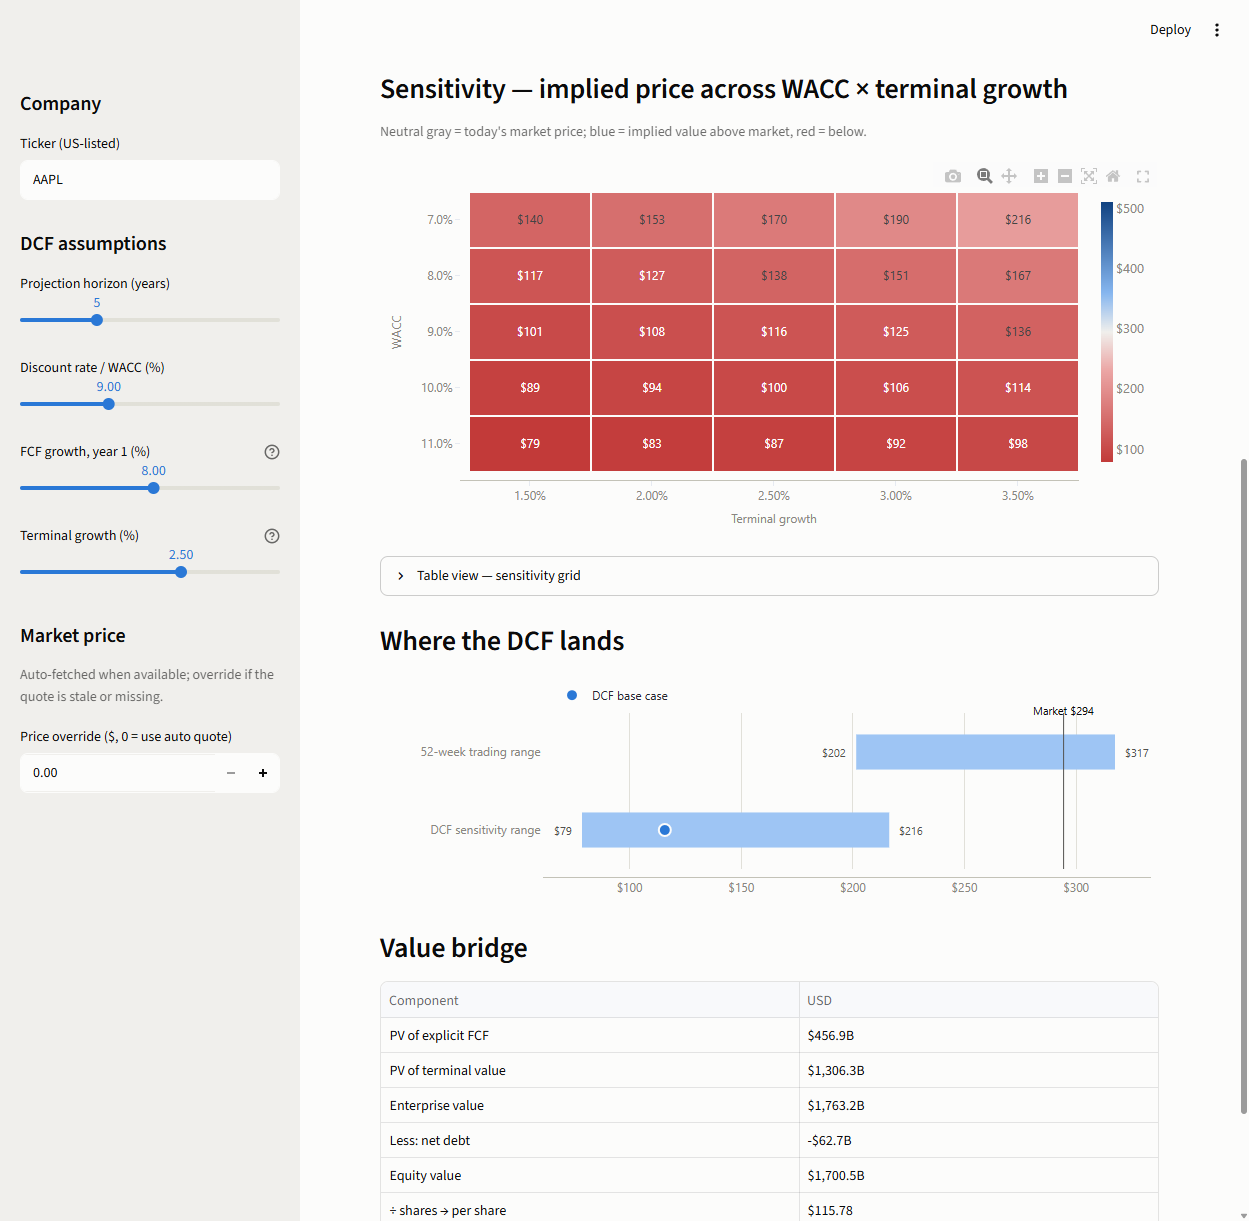
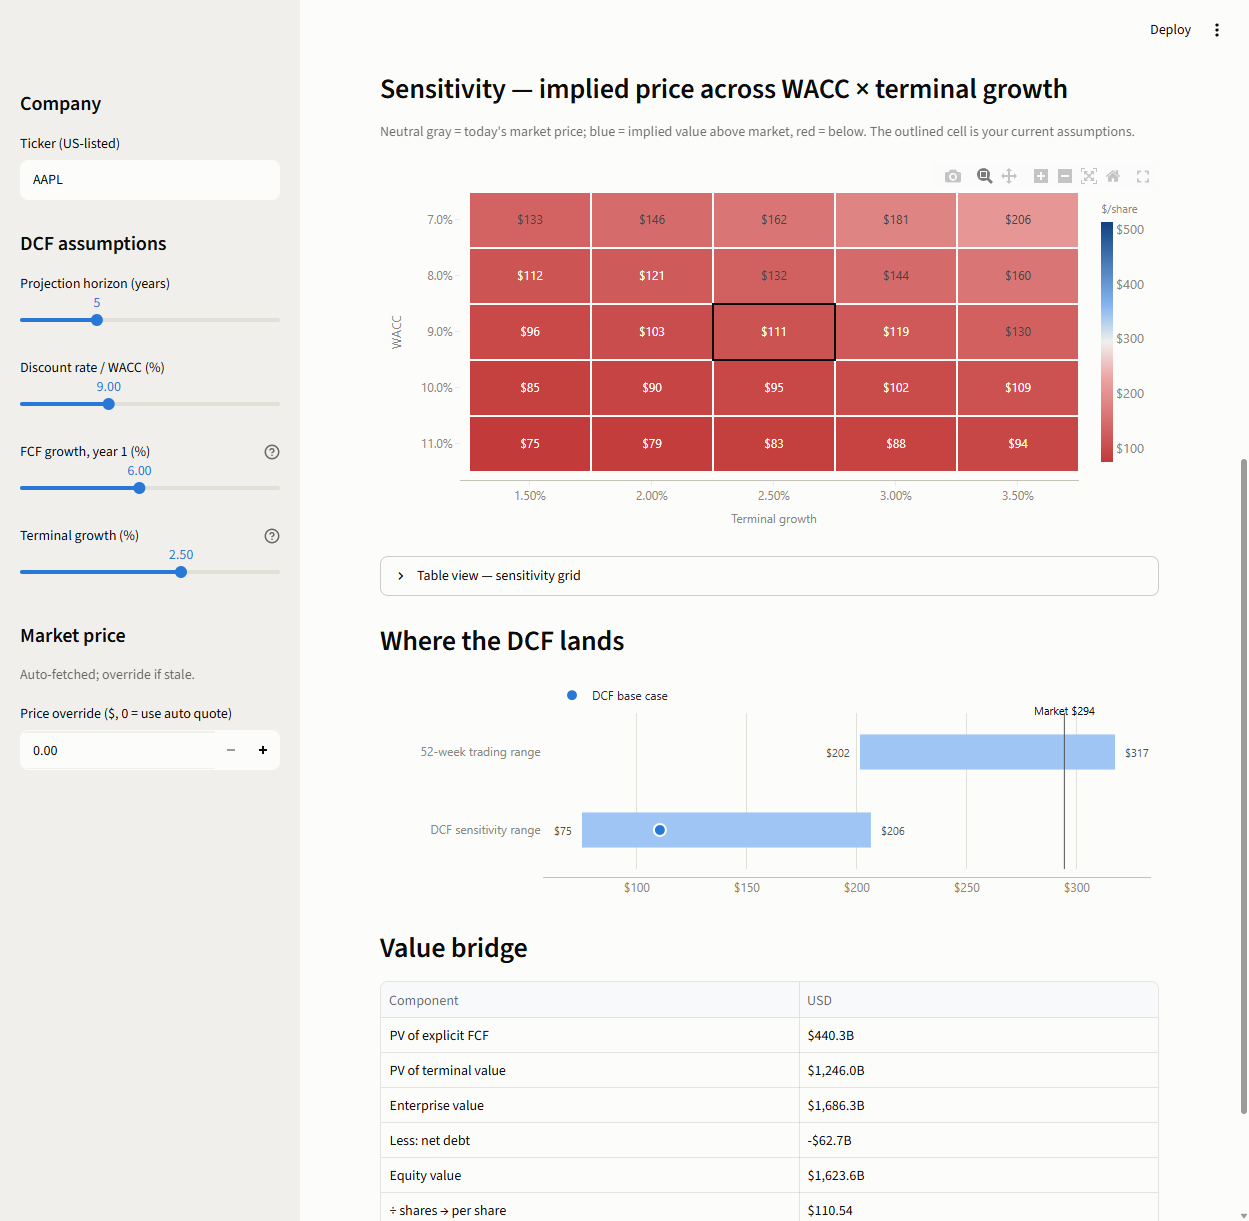
fix: currency mixing, label collisions, LaTeX-mangled warnings; smarter UI
Bugs:
- prefer USD unit per fact (dual-currency filers mixed currencies)
- clearer error for IFRS/20-F filers (was misattributed to banks)
- end-labels anchored to last valid year, not last axis year
- margin end-labels dodge when overlapping (AMZN op/net both 11%)
- escape $ in st.warning (markdown math mode ate dollar amounts)
- guard divide-by-zero in FCF smoothing; skip football field on empty grid

UI:
- growth slider seeded from the company's own FCF CAGR (per-ticker keys)
- base-case cell outlined on sensitivity heatmap; colorbar titled
- EV tile humanized ($1.69T), projection table in $B, ticker suggestions
- hide never-reported concepts in tables; note when GrossProfit is absent

diff --git a/app.py b/app.py
@@ -8,6 +8,8 @@ Run locally:
     streamlit run app.py
 """
 
+import difflib
+
 import numpy as np
 import pandas as pd
 import streamlit as st
@@ -47,28 +49,20 @@ def table_view(df: pd.DataFrame, label: str = "Table view") -> None:
         st.dataframe(df, use_container_width=True)
 
 
+def money(v: float) -> str:
+    """$1.76T / $95B — human scale for headline tiles."""
+    if abs(v) >= 1e12:
+        return f"${v / 1e12:,.2f}T"
+    return f"${v / 1e9:,.0f}B"
+
+
 # --------------------------------------------------------------------------- #
-# Sidebar — company + assumptions
+# Sidebar part 1 — which company
 # --------------------------------------------------------------------------- #
 with st.sidebar:
     st.header("Company")
     ticker = st.text_input("Ticker (US-listed)", value="AAPL", max_chars=10).strip().upper()
 
-    st.header("DCF assumptions")
-    years = st.slider("Projection horizon (years)", 3, 10, 5)
-    wacc_pct = st.slider("Discount rate / WACC (%)", 6.0, 15.0, 9.0, 0.25)
-    growth_pct = st.slider("FCF growth, year 1 (%)", -10.0, 25.0, 8.0, 0.5,
-                           help="Defaults are a neutral starting point — the historical FCF CAGR is shown below for reference.")
-    terminal_pct = st.slider("Terminal growth (%)", 0.0, 4.0, 2.5, 0.25,
-                             help="Long-run growth into perpetuity; usually at or below nominal GDP growth (~2-3%).")
-
-    st.header("Market price")
-    st.caption("Auto-fetched when available; override if the quote is stale or missing.")
-    price_override = st.number_input("Price override ($, 0 = use auto quote)", min_value=0.0, value=0.0, step=1.0)
-
-# --------------------------------------------------------------------------- #
-# Load data
-# --------------------------------------------------------------------------- #
 if not ticker:
     st.info("Enter a ticker in the sidebar to begin.")
     st.stop()
@@ -77,22 +71,54 @@ try:
     with st.spinner(f"Pulling {ticker} 10-K history from SEC EDGAR…"):
         info, fin, shares = load_company(ticker)
 except KeyError:
-    st.error(f"**{ticker}** isn't in the SEC's company list. Check the ticker — foreign or OTC "
-             "listings without EDGAR filings won't work.")
+    st.error(f"**{ticker}** isn't in the SEC's company list.")
+    close = difflib.get_close_matches(ticker, list(ticker_map().keys()), n=5, cutoff=0.6)
+    if close:
+        st.info("Did you mean: " + " · ".join(f"**{c}**" for c in close) + "?")
     st.stop()
 except ValueError as e:
-    st.error(f"EDGAR has filings for **{ticker}** but not the annual facts this model needs: {e}. "
-             "Banks and insurers often report under different concepts than the standard "
-             "revenue/CFO/capex set this DCF is built on.")
+    st.error(f"EDGAR has filings for **{ticker}**, but {e}.")
+    st.caption("Banks and insurers report under concepts this FCF-based DCF doesn't "
+               "use (no capex, negative CFO by design), and IFRS/20-F filers use a "
+               "different taxonomy — both are out of scope for this model.")
     st.stop()
 except Exception as e:
     st.error(f"Couldn't reach SEC EDGAR ({type(e).__name__}). Try again in a minute.")
     st.stop()
 
 quote = load_quote(ticker)
-market_price = price_override if price_override > 0 else (quote.price if quote else None)
-
 fcf_cagr = dcf_mod.historical_fcf_cagr(fin["fcf"])
+
+# --------------------------------------------------------------------------- #
+# Sidebar part 2 — assumptions, seeded from this company's own history.
+# Widget keys include the ticker so switching companies re-seeds the sliders.
+# --------------------------------------------------------------------------- #
+# Snap to the slider's 0.5 step so the seeded default sits on the grid.
+default_growth = round(fcf_cagr * 100 * 2) / 2 if fcf_cagr is not None else 8.0
+with st.sidebar:
+    st.header("DCF assumptions")
+    years = st.slider("Projection horizon (years)", 3, 10, 5, key=f"years_{ticker}")
+    wacc_pct = st.slider("Discount rate / WACC (%)", 6.0, 15.0, 9.0, 0.25, key=f"wacc_{ticker}")
+    growth_pct = st.slider(
+        "FCF growth, year 1 (%)", -10.0, 25.0, float(default_growth), 0.5,
+        key=f"growth_{ticker}",
+        help="Seeded from this company's historical FCF CAGR (shown under the title) "
+             "when it's computable; otherwise 8%.",
+    )
+    terminal_pct = st.slider("Terminal growth (%)", 0.0, 4.0, 2.5, 0.25, key=f"term_{ticker}",
+                             help="Long-run growth into perpetuity; usually at or below "
+                                  "nominal GDP growth (~2-3%).")
+
+    st.header("Market price")
+    if quote is None:
+        st.caption("⚠ Quote lookup failed (rate limit or unknown symbol) — enter a price "
+                   "below to compare against the DCF.")
+    else:
+        st.caption("Auto-fetched; override if stale.")
+    price_override = st.number_input("Price override ($, 0 = use auto quote)",
+                                     min_value=0.0, value=0.0, step=1.0)
+
+market_price = price_override if price_override > 0 else (quote.price if quote else None)
 
 # --------------------------------------------------------------------------- #
 # Header + hero tiles
@@ -123,9 +149,11 @@ if result:
               help=None if market_price else "Quote unavailable — set a price override in the sidebar.")
     t3.metric("Upside vs market", f"{upside:+.1f}%" if upside is not None else "—",
               delta=f"{upside:+.1f}%" if upside is not None else None)
-    t4.metric("Enterprise value", f"${result.enterprise_value / 1e9:,.0f}B")
+    t4.metric("Enterprise value", money(result.enterprise_value))
     for w in result.warnings:
-        st.warning(w)
+        # Streamlit renders markdown: a pair of $ signs flips into LaTeX math
+        # and mangles dollar amounts — escape them.
+        st.warning(w.replace("$", "\\$"))
 else:
     st.error(f"DCF not computable with these inputs: {dcf_error}")
 
@@ -140,28 +168,35 @@ with tab_val:
     if result:
         st.subheader("Free cash flow — history and projection")
         st.plotly_chart(charts.fig_fcf_projection(fin, result.projection), use_container_width=True)
-        proj_tbl = result.projection.copy()
-        proj_tbl["growth"] = (proj_tbl["growth"] * 100).round(2)
-        table_view(proj_tbl.round(0), "Table view — projection")
+        proj_tbl = pd.DataFrame({
+            "Year": result.projection["year"],
+            "Growth %": (result.projection["growth"] * 100).round(2),
+            "FCF ($B)": (result.projection["fcf"] / 1e9).round(2),
+            "Discount factor": result.projection["discount_factor"].round(3),
+            "PV ($B)": (result.projection["pv"] / 1e9).round(2),
+        }).set_index("Year")
+        table_view(proj_tbl, "Table view — projection")
 
         st.subheader("Sensitivity — implied price across WACC × terminal growth")
-        st.caption("Neutral gray = today's market price; blue = implied value above market, red = below.")
+        st.caption("Neutral gray = today's market price; blue = implied value above market, "
+                   "red = below. The outlined cell is your current assumptions.")
         grid = dcf_mod.sensitivity_grid(fin, shares, assump)
         st.plotly_chart(charts.fig_sensitivity(grid, market_price), use_container_width=True)
         table_view(grid.round(2).rename(columns=lambda g: f"{g*100:.2f}%",
                                         index=lambda w: f"{w*100:.1f}%"),
                    "Table view — sensitivity grid")
 
-        st.subheader("Where the DCF lands")
         sens_vals = grid.values[np.isfinite(grid.values.astype(float))]
-        st.plotly_chart(
-            charts.fig_football_field(
-                result.implied_price, float(sens_vals.min()), float(sens_vals.max()),
-                quote.week52_low if quote else None, quote.week52_high if quote else None,
-                market_price,
-            ),
-            use_container_width=True,
-        )
+        if sens_vals.size:
+            st.subheader("Where the DCF lands")
+            st.plotly_chart(
+                charts.fig_football_field(
+                    result.implied_price, float(sens_vals.min()), float(sens_vals.max()),
+                    quote.week52_low if quote else None, quote.week52_high if quote else None,
+                    market_price,
+                ),
+                use_container_width=True,
+            )
 
         st.subheader("Value bridge")
         bridge = pd.DataFrame({
@@ -179,9 +214,13 @@ with tab_fin:
     st.subheader("Revenue and net income")
     st.plotly_chart(charts.fig_revenue_income(fin), use_container_width=True)
     st.subheader("Margins")
+    if fin["gross_profit"].isna().all():
+        st.caption(f"{info['title']} doesn't report a GrossProfit line in its filings — "
+                   "gross margin is omitted.")
     st.plotly_chart(charts.fig_margins(fin), use_container_width=True)
     fin_tbl = fin[["fiscal_year", "revenue", "gross_profit", "operating_income",
                    "net_income", "cfo", "capex", "fcf"]].set_index("fiscal_year")
+    fin_tbl = fin_tbl.dropna(axis=1, how="all")  # hide concepts this filer never reports
     table_view((fin_tbl / 1e9).round(2), "Table view — financials (USD billions)")
 
 with tab_ratio:
@@ -193,7 +232,7 @@ with tab_ratio:
         "FCF margin %": (fin["fcf"] / fin["revenue"] * 100).round(1),
         "Current ratio": (fin["assets_current"] / fin["liabilities_current"]).round(2),
         "Debt/equity": (fin["total_debt"] / fin["equity"]).round(2),
-    }).set_index("fiscal_year")
+    }).set_index("fiscal_year").dropna(axis=1, how="all")
     table_view(ratios, "Table view — ratios")
 
 with tab_data:

diff --git a/charts.py b/charts.py
@@ -68,9 +68,10 @@ def fig_revenue_income(df: pd.DataFrame) -> go.Figure:
     # Grouped bars sit either side of the year tick — offset each label to its
     # own bar so neither collides with the taller neighbor.
     for col, color, xshift in (("revenue", S1_BLUE, -18), ("net_income", "#12805a", 18)):
-        val = df[col].dropna()
-        if not val.empty:
-            fig.add_annotation(x=years.iloc[-1], y=val.iloc[-1], text=_usd_b(val.iloc[-1]),
+        idx = df[col].last_valid_index()
+        if idx is not None:
+            fig.add_annotation(x=df.loc[idx, "fiscal_year"], y=df.loc[idx, col],
+                               text=_usd_b(df.loc[idx, col]),
                                yshift=12, xshift=xshift, showarrow=False,
                                font=dict(size=11, color=color), xanchor="center")
     fig.update_layout(bargap=0.35, bargroupgap=0.12)
@@ -86,6 +87,7 @@ def fig_margins(df: pd.DataFrame) -> go.Figure:
         ("Net margin", df["net_income"] / df["revenue"], S3_YELLOW),
     ]
     fig = go.Figure()
+    labels: list[tuple[float, str, str, int]] = []  # (y, text, color, fiscal_year)
     for name, vals, color in series:
         pct = vals * 100
         if pct.dropna().empty:
@@ -93,9 +95,20 @@ def fig_margins(df: pd.DataFrame) -> go.Figure:
         fig.add_scatter(x=years, y=pct, name=name, mode="lines",
                         line=dict(color=color, width=2),
                         hovertemplate=name + " %{y:.1f}%<extra></extra>")
-        last = pct.dropna()
-        fig.add_annotation(x=years.iloc[-1], y=last.iloc[-1], text=f"{last.iloc[-1]:.0f}%",
-                           xshift=18, showarrow=False, font=dict(size=11, color=color))
+        idx = pct.last_valid_index()
+        labels.append((float(pct.loc[idx]), f"{pct.loc[idx]:.0f}%", color,
+                       int(df.loc[idx, "fiscal_year"])))
+    # Dodge end-labels that land on top of each other (e.g. two margins both
+    # ending at 11%): nudge later labels down in 12px steps when too close.
+    labels.sort(key=lambda t: -t[0])
+    prev_y, bump = None, 0
+    span = max(v[0] for v in labels) - min(v[0] for v in labels) if labels else 0
+    min_gap = max(span * 0.06, 1.0)
+    for y_val, text, color, fy in labels:
+        bump = bump + 14 if prev_y is not None and (prev_y - y_val) < min_gap else 0
+        fig.add_annotation(x=fy, y=y_val, text=text, xshift=18, yshift=-bump,
+                           showarrow=False, font=dict(size=11, color=color))
+        prev_y = y_val
     return _base_layout(fig, ylabel="% of revenue")
 
 
@@ -116,10 +129,10 @@ def fig_ratio_panels(df: pd.DataFrame) -> go.Figure:
         fig.add_scatter(x=years, y=vals, mode="lines", line=dict(color=S1_BLUE, width=2),
                         showlegend=False, row=row, col=col,
                         hovertemplate=name + " %{y:.2f}" + suffix + "<extra></extra>")
-        last = vals.dropna()
-        if not last.empty:
-            fig.add_annotation(x=years.iloc[-1], y=last.iloc[-1],
-                               text=f"{last.iloc[-1]:.1f}{suffix}", xshift=16, showarrow=False,
+        idx = vals.last_valid_index()
+        if idx is not None:
+            fig.add_annotation(x=df.loc[idx, "fiscal_year"], y=vals.loc[idx],
+                               text=f"{vals.loc[idx]:.1f}{suffix}", xshift=16, showarrow=False,
                                font=dict(size=11, color=S1_BLUE), row=row, col=col)
     fig.update_annotations(font=dict(size=13, color=INK_2))
     _base_layout(fig, height=480)
@@ -172,8 +185,14 @@ def fig_sensitivity(grid: pd.DataFrame, market_price: float | None) -> go.Figure
         textfont=dict(size=12, family=FONT),
         colorscale=colorscale, zmin=zmin, zmax=zmax,
         xgap=2, ygap=2, hovertemplate="WACC %{y} · growth %{x}: %{text}<extra></extra>",
-        colorbar=dict(tickprefix="$", outlinewidth=0, thickness=12, tickfont=dict(color=MUTED)),
+        colorbar=dict(title=dict(text="$/share", font=dict(size=11, color=MUTED)),
+                      tickprefix="$", outlinewidth=0, thickness=12, tickfont=dict(color=MUTED)),
     ))
+    # The grid is a linspace centered on the user's assumptions, so the center
+    # cell IS the base case — outline it so readers can anchor themselves.
+    ci, cj = len(grid.index) // 2, len(grid.columns) // 2
+    fig.add_shape(type="rect", x0=cj - 0.5, x1=cj + 0.5, y0=ci - 0.5, y1=ci + 0.5,
+                  line=dict(color=INK, width=2))
     _base_layout(fig, height=380)
     fig.update_layout(hovermode="closest")
     # type="category" keeps the "8.0%" tick labels verbatim — otherwise Plotly

diff --git a/edgar.py b/edgar.py
@@ -138,9 +138,15 @@ def _annual_series(gaap: dict, tags: list[str], keep: Callable[[dict], bool]) ->
         fact = gaap.get(tag)
         if not fact:
             continue
-        for unit_rows in fact.get("units", {}).values():
-            rows = [r for r in unit_rows if keep(r)]
-            merged.update(_dedupe_by_end(rows))
+        units = fact.get("units", {})
+        # A dual-currency filer reports the same concept in several units;
+        # merging them would mix currencies. Take USD when present, otherwise
+        # the single unit the filer uses.
+        unit_key = "USD" if "USD" in units else next(iter(units), None)
+        if unit_key is None:
+            continue
+        rows = [r for r in units[unit_key] if keep(r)]
+        merged.update(_dedupe_by_end(rows))
     return merged
 
 
@@ -160,9 +166,15 @@ def annual_financials(facts: dict, years: int = 10) -> pd.DataFrame:
 
     Index: fiscal year end date. Values in USD. Missing tags -> NaN columns.
     """
-    gaap = facts.get("facts", {}).get("us-gaap", {})
+    all_facts = facts.get("facts", {})
+    gaap = all_facts.get("us-gaap", {})
     if not gaap:
-        raise ValueError("No us-gaap facts in this filing history")
+        if "ifrs-full" in all_facts:
+            raise ValueError(
+                "this company files under IFRS (20-F), not US GAAP — IFRS concept "
+                "mapping isn't supported yet"
+            )
+        raise ValueError("no us-gaap facts in this filing history")
 
     columns: dict[str, dict[dt.date, float]] = {}
     for name, tags in DURATION_TAGS.items():

diff --git a/dcf.py b/dcf.py
@@ -73,7 +73,7 @@ def run_dcf(financials: pd.DataFrame, shares: float, a: DCFAssumptions) -> DCFRe
         smoothed = float(fcf_hist.tail(2).mean())
         # Smooth a one-year spike/dip: base off the 2-year average when the
         # latest year deviates from it by more than 25%.
-        if abs(base_fcf - smoothed) / abs(smoothed) > 0.25:
+        if smoothed != 0 and abs(base_fcf - smoothed) / abs(smoothed) > 0.25:
             warnings.append(
                 f"Latest FCF (${base_fcf/1e9:,.1f}B) deviates >25% from the 2-year "
                 f"average (${smoothed/1e9:,.1f}B); using the average as the base."
